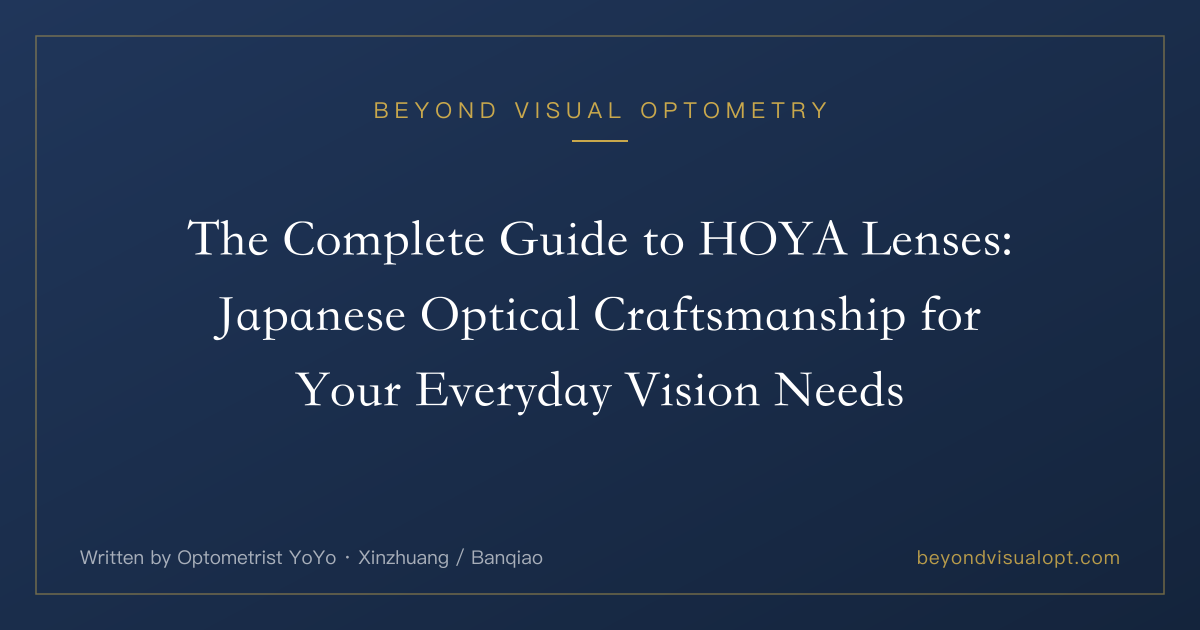
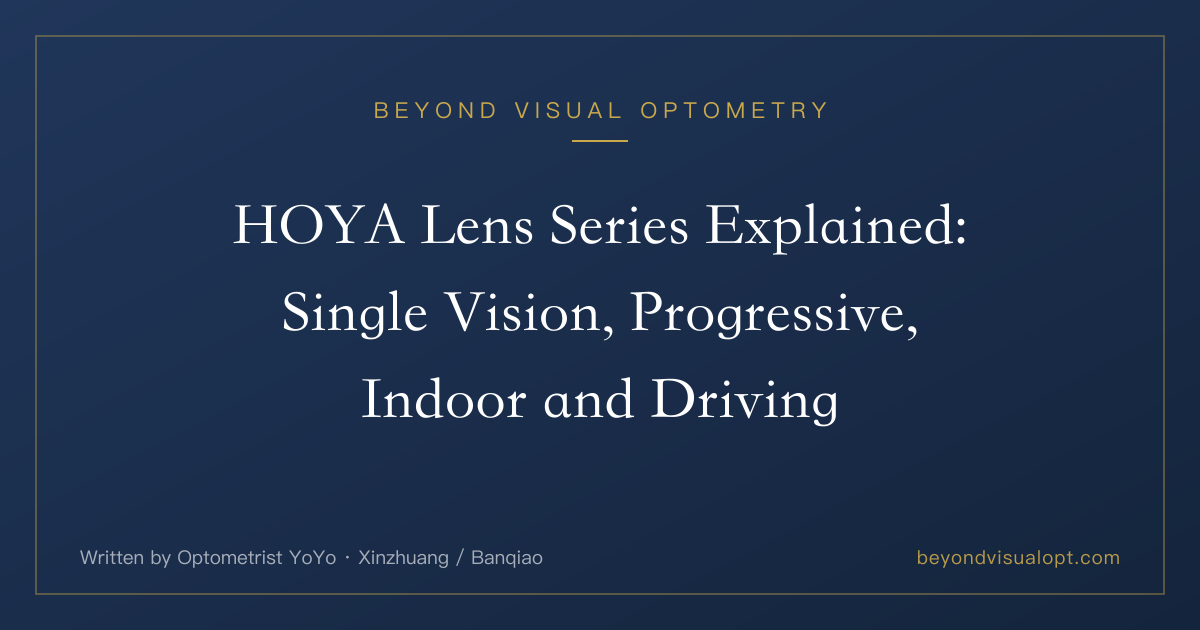
英文 HOYA 文章 H1 改為分類描述（老闆 11-24 選 A，法務同意），重產 OG

Changed region(s): [[0.1542, 0.3016, 0.8325, 0.4222], [0.185, 0.4524, 0.8325, 0.5429], [0.2467, 0.573, 0.7708, 0.6937]]

diff --git a/src/content/blog-en/hoya-lens-guide.md b/src/content/blog-en/hoya-lens-guide.md
@@ -1,5 +1,5 @@
 ---
-title: "The Complete Guide to HOYA Lenses: Japanese Optical Craftsmanship for Your Everyday Vision Needs"
+title: "HOYA Lens Series Explained: Single Vision, Progressive, Indoor and Driving"
 date: "2026-06-24"
 tag: "Lenses"
 excerpt: "Nulux, Hilux, MyStyle V+, Balansis, Sync III — HOYA's series names run on and on, but they really sort by use into four groups: single vision, progressive, indoor and reading, and driving. Within each group, the series step up by design tier. Beyond Visual Optometry is a HOYA dealer and fits HOYA lenses at both its Xinzhuang and Banqiao stores; our licensed optometry staff explain how the series divide and which kind of design each one is."
